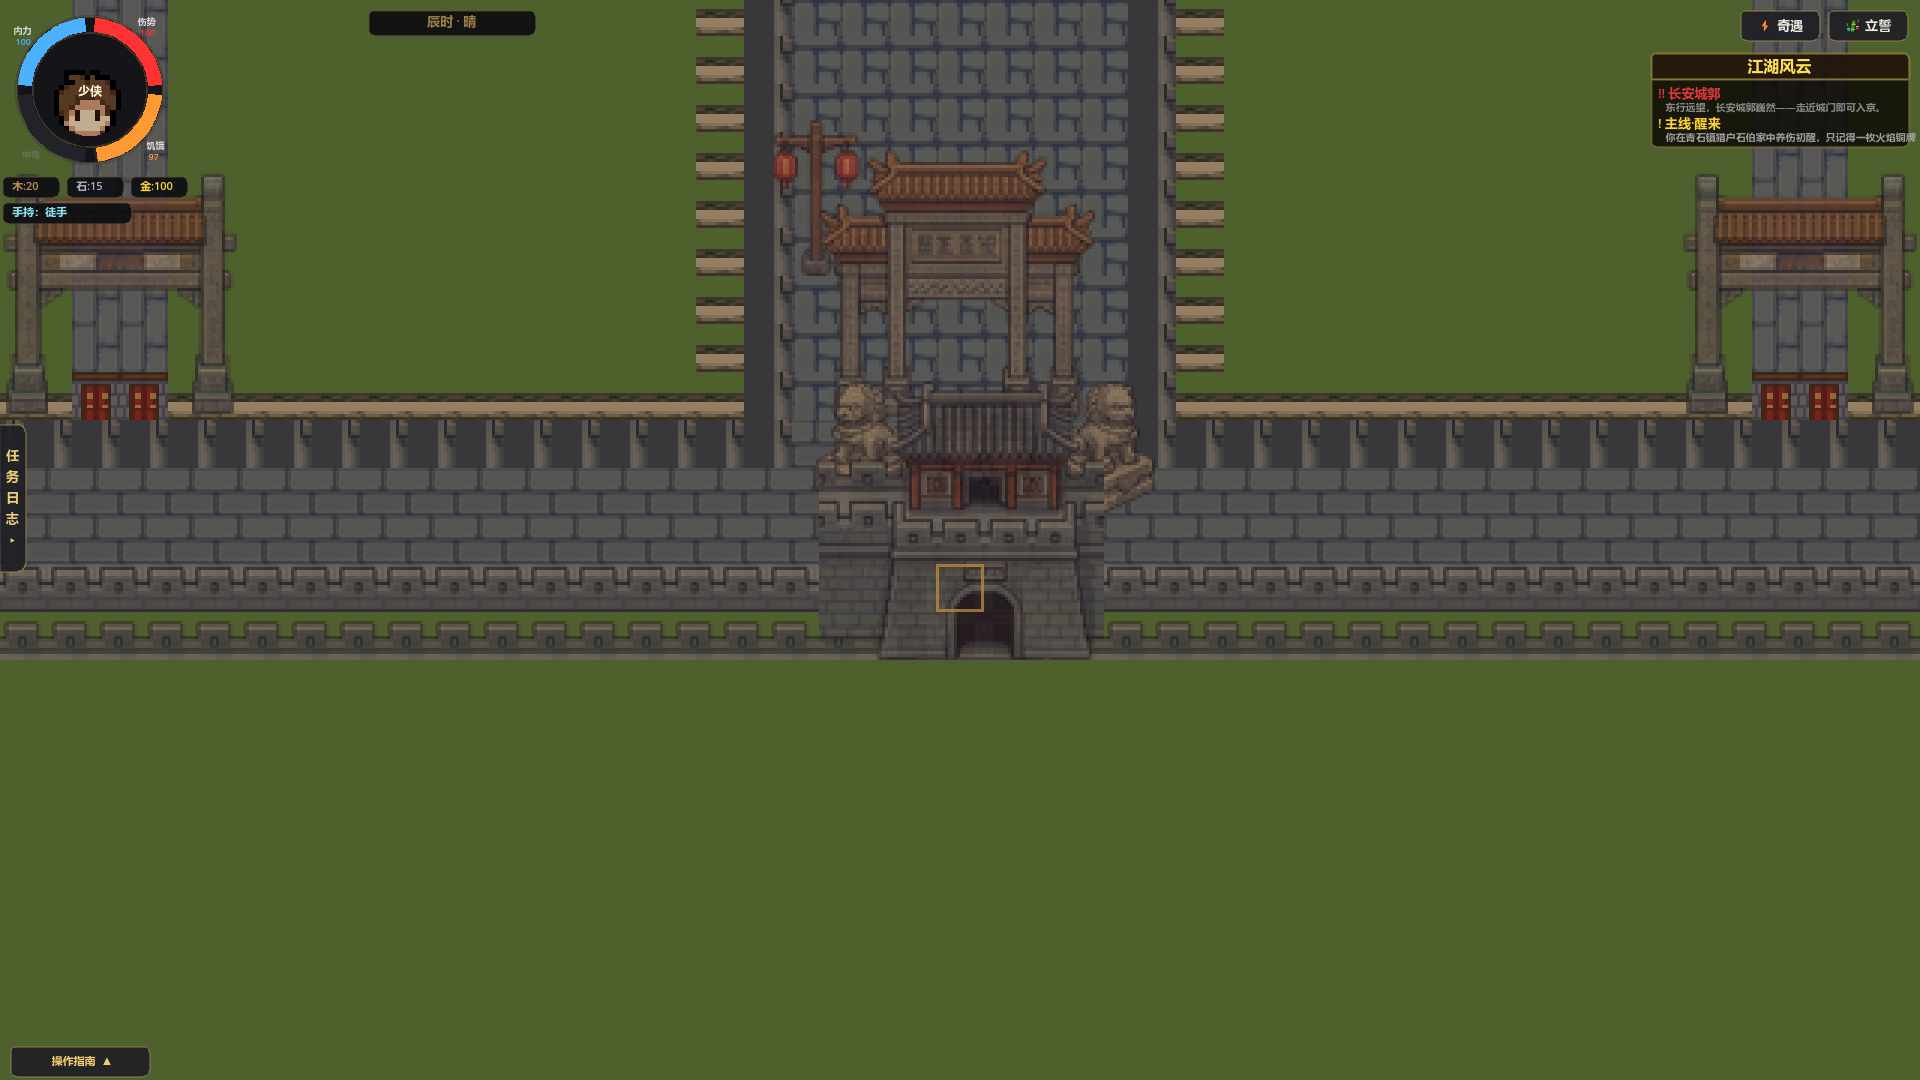
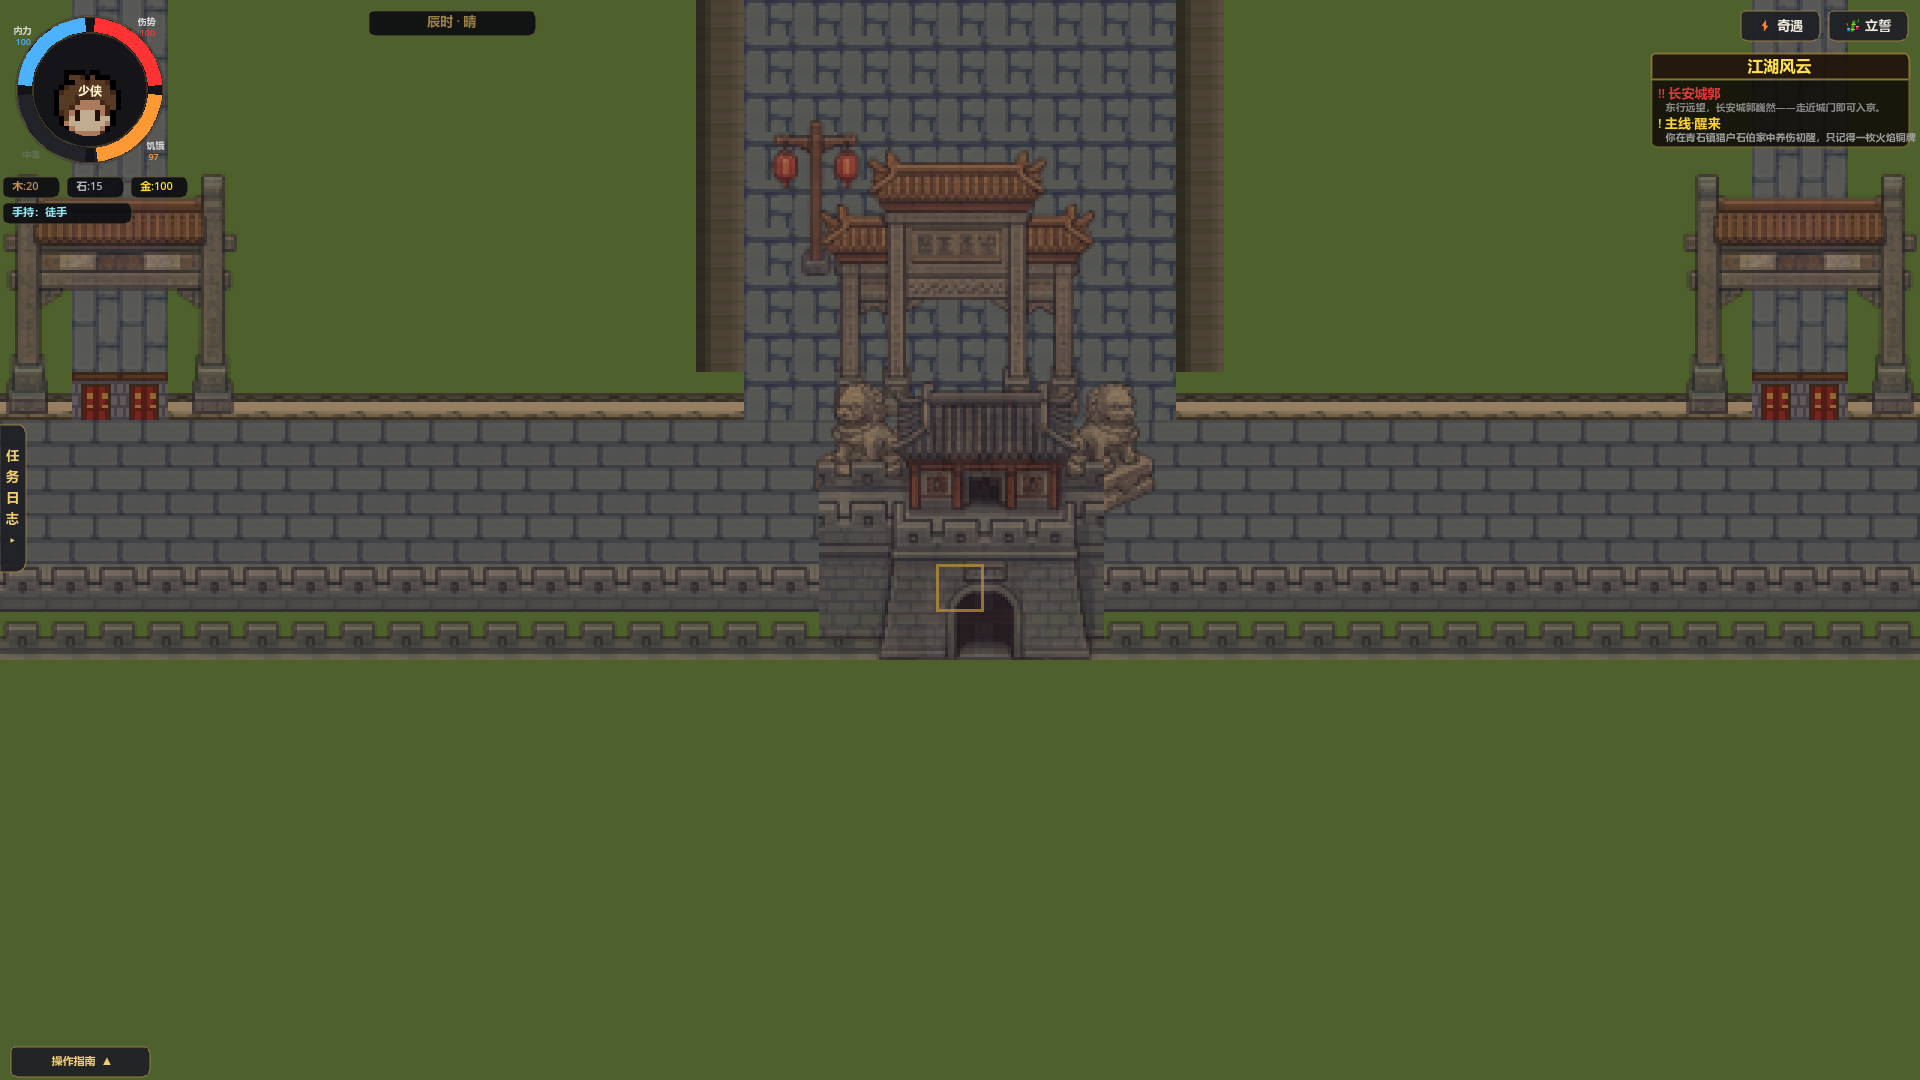
fix: 长安竖墙"横档梯"根治——程序素面竖立面(103/104/105)+散水圈删除
- 用户实拍：竖向城墙呈"白梯"完全不像墙。三层根因：①vedge标记放weights尾被zip截断从未生效；②源条带压缩致横缝放大+左缘凸起连排成横档；③坊脚散水圈(74人字纹)竖排同为梯
- 终案：竖立面=程序素面(源段平均色+±6%行噪点零重复图案)+生成式覆盖描边(行中位色左影右光)；103外郭竖立面双列厚墙/104宫墙/105坊墙
- 散水圈整体删除(竖排梯感)；城门豁口两行挖通
- 方法论：红测(纯红PNG验证渲染链路归属)+探针数组真值宽扫定位
- 验证：探针PASS/E2E双跑PASS/regress 121/121/竖墙样张目检干净

Changed region(s): [[0.5625, 0.0, 1.0, 0.4278], [0.0, 0.0, 0.4062, 0.4278]]

diff --git a/tools/import_sckr_changan.py b/tools/import_sckr_changan.py
@@ -126,11 +126,14 @@ COMPOSITES = [
      [5, 8, 3]),   # 100 坊墙（白灰+瓦顶+砖脚）
     ("wall_palace", JC3, [(0, 142, 16, 150), (0, 151, 16, 164), (0, 166, 16, 175)],
      [5, 9, 2]),   # 69 宫墙（金瓦顶+红身+石基）
-    ("wall_ward_v",   JN,  [(496, 194, 512, 200), (496, 208, 512, 266), (496, 272, 512, 290)],
-     [5, 8, 3, 90]),   # 105 坊墙·竖（墙身转90°）
-    ("wall_palace_v", JC3, [(0, 142, 16, 150), (0, 151, 16, 164), (0, 166, 16, 175)],
-     [5, 9, 2, 90]),   # 104 宫墙·竖
-    ("wall_city_body_v", JC, [(568, 138, 584, 154)], [16, 90]),   # 107 外郭墙·砖身行·竖（E/W 走向段）
+    # 竖向墙段=侧立面（无檐无垛口，纯墙面+左右描边，檐口只落在转角/墙段北端）
+    # 竖立面 = "solid" 程序素面（源段平均色+轻噪点，零重复图案；长条压缩/源凸起连排都会成"横档梯"，双重实测踩坑）
+    ("wall_ward_v",   JN,  [(496, 232, 512, 246)],
+     [16, "vedge", "solid"]),   # 105 坊墙·竖立面（暖白灰素面）
+    ("wall_palace_v", JC3, [(0, 152, 16, 162)],
+     [16, "vedge", "solid"]),   # 104 宫墙·竖立面（朱红素面）
+    ("wall_city_face_v", JC, [(568, 138, 584, 154)],
+     [16, "vedge", "solid"]),   # 103 外郭墙·竖立面（青灰素面，双列成厚墙）
 ]
 
 def trim_alpha(im, pad=1):
@@ -180,13 +183,71 @@ def main():
             continue
         src = sheet(rel)
         parts = []
-        for item in zip(strips, weights):
-            box, hpx = item[0], item[1]
-            rot = item[2] if len(item) > 2 else 0
+        # vedge 标记放在 weights 尾（zip 会因 strips 较短丢掉尾项，标记必须整表判断——踩坑：tag 永远读不到）
+        vedge = "vedge" in weights
+        hw = [w for w in weights if w != "vedge"]
+        for (box, hpx) in zip(strips, hw):
             s = src.crop(box)
-            if rot:
-                s = s.rotate(rot, expand=True)
             parts.append(s.resize((16, hpx), Image.NEAREST))
+        im = Image.new("RGBA", (16, 16))
+        y = 0
+        for p, hpx in zip(parts, hw):
+            im.paste(p, (0, y))
+            y += hpx
+        solid = "solid" in weights
+        if solid:
+            # 素面墙：源段平均色 + ±6% 行噪点（极轻，防绝对纯色）——竖排永不产生重复图案
+            src_strip = src.crop(strips[0])
+            px0 = src_strip.load()
+            n = 0
+            rs = gs = bs = 0
+            for yy in range(src_strip.height):
+                for xx in range(src_strip.width):
+                    r, g, b, a = px0[xx, yy]
+                    if a > 10:
+                        rs += r; gs += g; bs += b; n += 1
+            base = (rs // max(1, n), gs // max(1, n), bs // max(1, n))
+            im = Image.new("RGBA", (16, 16))
+            px = im.load()
+            import random as _rnd
+            _rnd.seed(hash(name) & 0xFFFF)
+            for yy in range(16):
+                f = 1.0 + _rnd.uniform(-0.06, 0.06)
+                for xx in range(16):
+                    px[xx, yy] = (min(255, int(base[0] * f)), min(255, int(base[1] * f)), min(255, int(base[2] * f)), 255)
+        if vedge:
+            # 生成式描边（覆盖式，非乘法——源图残亮乘不没）：左3px 深影、2px 过渡、右2px 受光
+            px = im.load()
+            for _ in range(16):
+                holes = [(x, y) for x in range(16) for y in range(16) if px[x, y][3] == 0]
+                if not holes:
+                    break
+                for x, y in holes:
+                    for nx, ny in ((x, y + 1), (x + 1, y), (x - 1, y), (x, y - 1)):
+                        if 0 <= nx < 16 and 0 <= ny < 16 and px[nx, ny][3] > 0:
+                            px[x, y] = px[nx, ny]
+                            break
+            # 竖立面加强（候选B实测最优）：左3px强阴影+2px过渡 → 受光面 → 右2px提亮，底部2px墙基线；
+            # 连排读作连续竖高墙（与横墙垛口+亮墙身构成同一堵墙的两个视角）
+            px = im.load()
+            for yy in range(16):
+                # 行基准色（当前行中位调）——覆盖式描边用它，避免源图残亮干扰
+                row = [px[xx, yy] for xx in range(16)]
+                med = sorted(row, key=lambda c: c[0] + c[1] + c[2])[8][:3]
+                for xx in range(16):
+                    f = 1.0
+                    if xx < 3:
+                        f = 0.58
+                    elif xx < 5:
+                        f = 0.76
+                    elif xx >= 14:
+                        f = 1.22
+                    elif xx >= 12:
+                        f = 1.1
+                    px[xx, yy] = (min(255, int(med[0] * f)), min(255, int(med[1] * f)), min(255, int(med[2] * f)), 255)
+        im.save(os.path.join(OUT_TILES, name + ".png"))
+        made.append((name, im, "tile"))
+        continue
         im = Image.new("RGBA", (16, 16))
         y = 0
         for p, hpx in zip(parts, weights):
